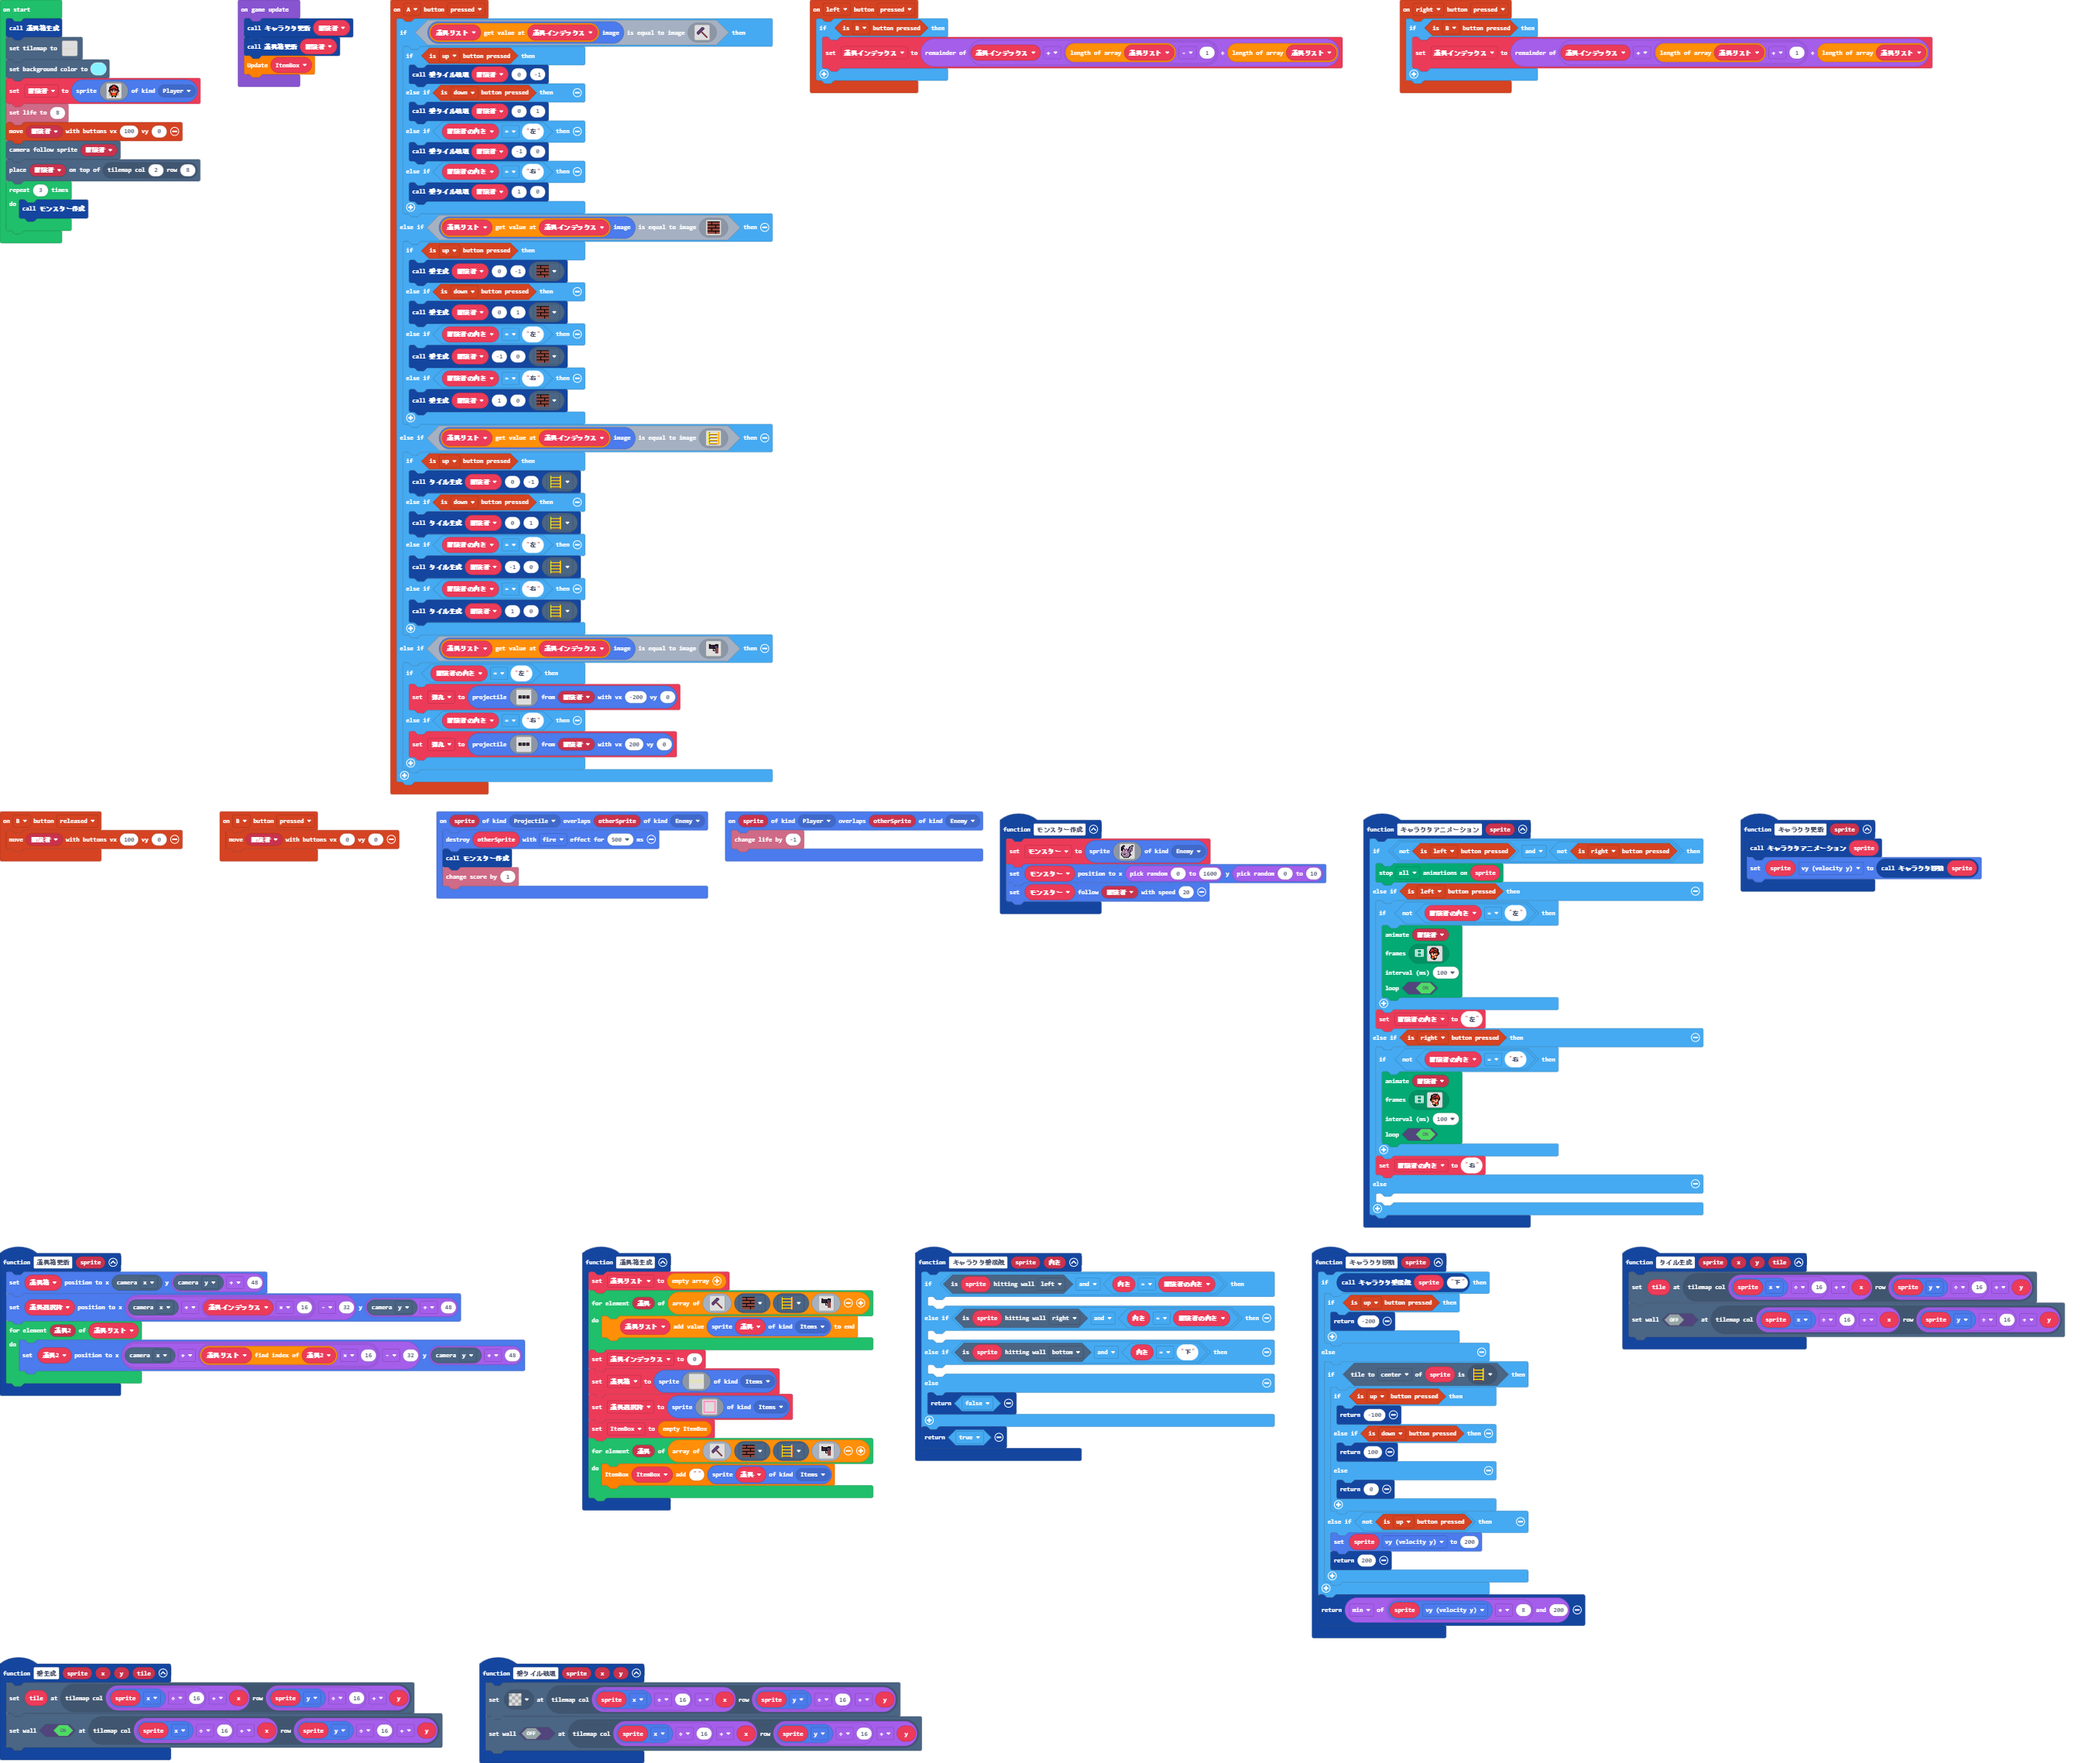
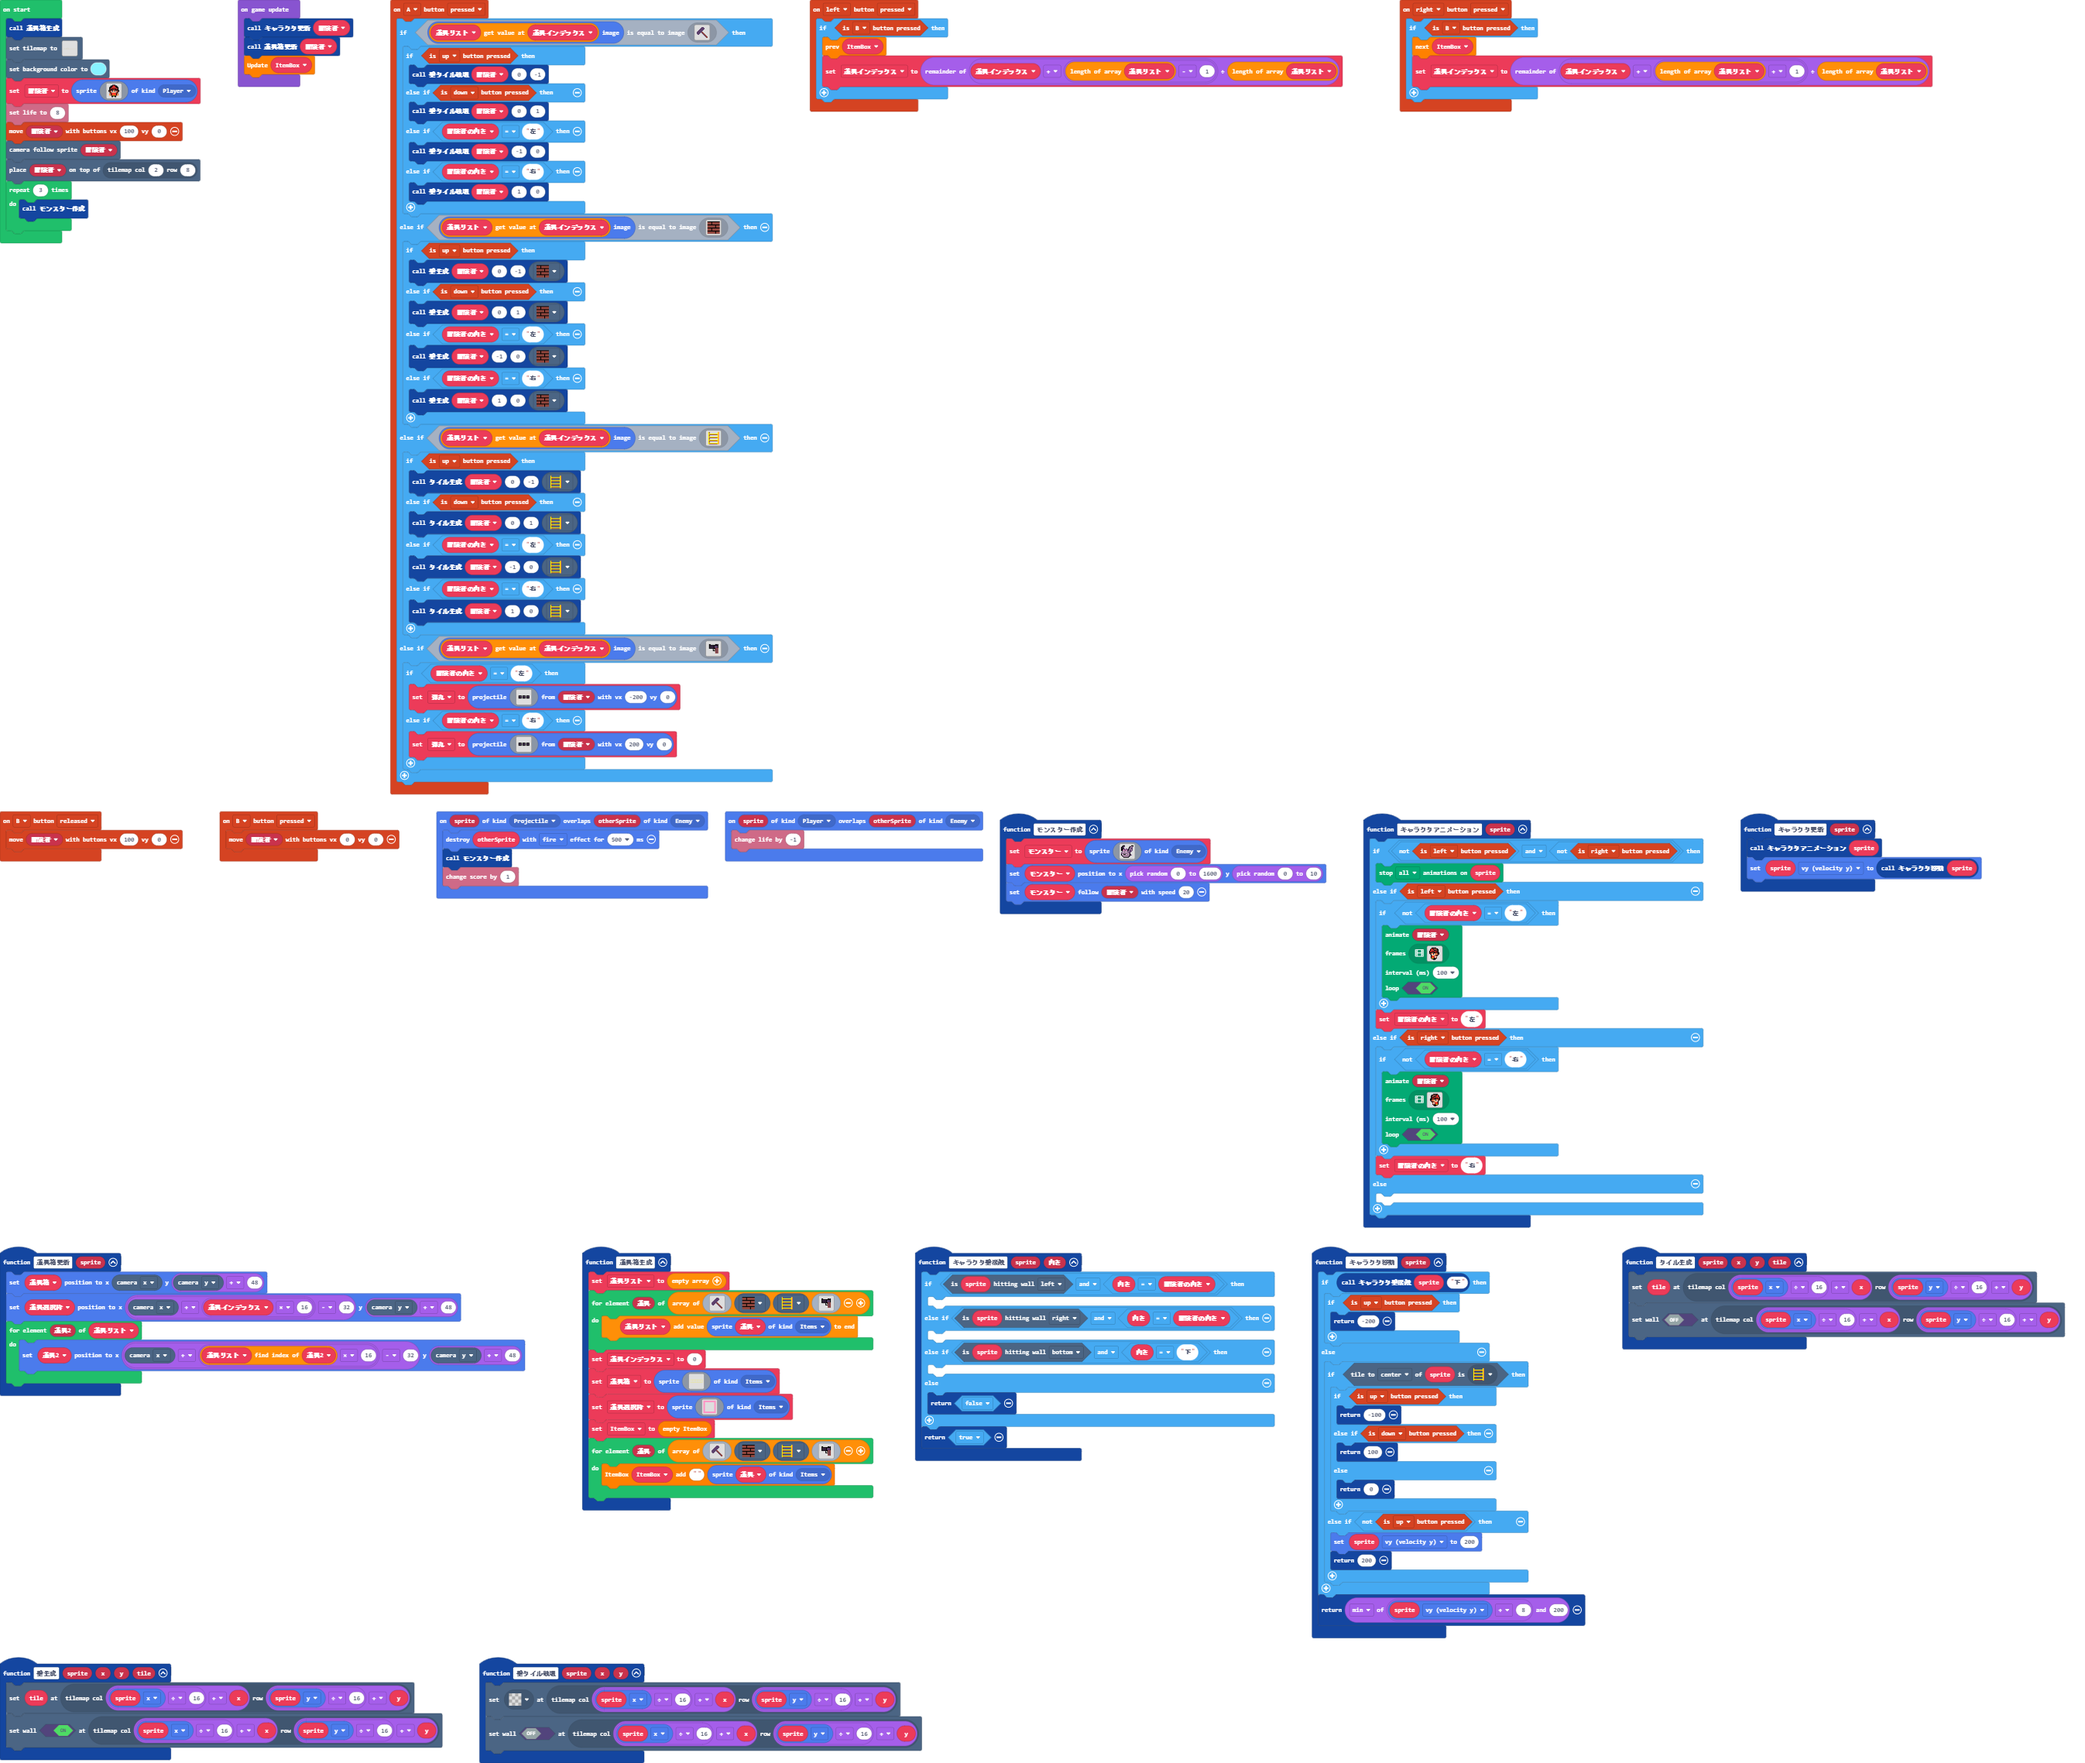
Update main.blocks, main.ts, itembox.ts

Changed region(s): [[0.3743, 0.0, 0.9358, 0.0624]]

diff --git a/itembox.ts b/itembox.ts
@@ -1,20 +1,4 @@
-// /**
-//  * Functions that create objects should store them in variables.
-//  */
-// //% color="#AA278D"
-// namespace language {
-//     //%
-//     export class Robot { }
 
-//     /**
-//      * Creates a robot and automtically set it to a variable
-//      */
-//     //% block="create robot"
-//     //% blockSetVariable=robot
-//     export function createRobot(): Robot {
-//         return undefined;
-//     }
-// }
 
 
 // namespace SpriteKind {
@@ -34,62 +18,7 @@ class Item {
         this._name = name;
         this._sprite = sprite;
     }
-
-    /**
-     * Set a name to the Item
-     * @param name
-     */
-    //% block="turn %Items(ItemBox) %active"
-    setName(name: string) {
-        this._name = name;
-    }
-    
 }
-
-
-// function 道具箱生成 () {
-//     道具リスト = []
-//     for (let 道具 of [assets.image`ハンマー`, assets.tile`壁タイル`, assets.tile`ハシゴタイル`, assets.image`ハンドガン`]) {
-//         道具リスト.push(sprites.create(道具, SpriteKind.Items))
-//     }
-//     道具インデックス = 0
-//     道具箱 = sprites.create(img`
-//         55555555555555555555555555555555555555555555555555555555555555555555555555555555
-//         5...............5...............5...............5...............5..............5
-//         5...............5...............5...............5...............5..............5
-//         5...............5...............5...............5...............5..............5
-//         5...............5...............5...............5...............5..............5
-//         5...............5...............5...............5...............5..............5
-//         5...............5...............5...............5...............5..............5
-//         5...............5...............5...............5...............5..............5
-//         5...............5...............5...............5...............5..............5
-//         5...............5...............5...............5...............5..............5
-//         5...............5...............5...............5...............5..............5
-//         5...............5...............5...............5...............5..............5
-//         5...............5...............5...............5...............5..............5
-//         5...............5...............5...............5...............5..............5
-//         5...............5...............5...............5...............5..............5
-//         55555555555555555555555555555555555555555555555555555555555555555555555555555555
-//         `, SpriteKind.Items)
-//     道具選択枠 = sprites.create(img`
-//         3 3 3 3 3 3 3 3 3 3 3 3 3 3 3 3 
-//         3 3 3 3 3 3 3 3 3 3 3 3 3 3 3 3 
-//         3 3 . . . . . . . . . . . . 3 3 
-//         3 3 . . . . . . . . . . . . 3 3 
-//         3 3 . . . . . . . . . . . . 3 3 
-//         3 3 . . . . . . . . . . . . 3 3 
-//         3 3 . . . . . . . . . . . . 3 3 
-//         3 3 . . . . . . . . . . . . 3 3 
-//         3 3 . . . . . . . . . . . . 3 3 
-//         3 3 . . . . . . . . . . . . 3 3 
-//         3 3 . . . . . . . . . . . . 3 3 
-//         3 3 . . . . . . . . . . . . 3 3 
-//         3 3 . . . . . . . . . . . . 3 3 
-//         3 3 . . . . . . . . . . . . 3 3 
-//         3 3 3 3 3 3 3 3 3 3 3 3 3 3 3 3 
-//         3 3 3 3 3 3 3 3 3 3 3 3 3 3 3 3 
-//         `, SpriteKind.Items)
-// }
 
 function createItemFrame(): Sprite {
     return sprites.create(img`
@@ -147,25 +76,14 @@ class ItemBox {
     constructor() {
         this._selected = 0;
         this._frame = createItemFrame();
+        this._frame.z = 0;
         this._focus = createItemFocus();
+        this._focus.z = 1;
 
         this._items = [];
-        // this._items.push(new Item("ハンマー", sprites.create(assets.image`ハンマー`, SpriteKind.Items)));
-        // this._items.push(new Item("壁タイル", sprites.create(assets.image`壁タイル`, SpriteKind.Items)));
-        // this._items.push(new Item("ハシゴタイル", sprites.create(assets.image`ハシゴタイル`, SpriteKind.Items)));
-        // this._items.push(new Item("ハンドガン", sprites.create(assets.image`ハンドガン`, SpriteKind.Items)));
-
     }
 
-    // /**
-    //  * Use "$this" to define a variable block that
-    //  * references the "this" pointer.
-    //  */
-    // //% block="ItemBox $this(ItemBox) add $item"    
-    // addItem(item: Item) {
-    //     this._items.push(item);
-    // }
-
+    
     /**
      * Use "$this" to define a variable block that
      * references the "this" pointer.
@@ -178,6 +96,26 @@ class ItemBox {
         this._items.push(item);
     }
 
+    //% block="ItemBox $this(ItemBox) selected $name "    
+    isSelected(name:string) : boolean {
+        let item = this._items[this._selected];
+        return item._name.compare(name) == 0;
+    }
+    
+    //% block="next $this(ItemBox)"    
+    next() {
+        this._selected += 1;
+        if( this._selected >= this._items.length )
+            this._selected = 0;
+    }
+
+    //% block="prev $this(ItemBox)"    
+    prev() {
+        this._selected -= 1;
+        if( this._selected < 0)
+            this._selected = this._items.length - 1;
+    }
+    
     /**
      * Use "$this" to define a variable block that
      * references the "this" pointer.

diff --git a/main.ts b/main.ts
@@ -71,6 +71,7 @@ controller.A.onEvent(ControllerButtonEvent.Pressed, function () {
 })
 controller.left.onEvent(ControllerButtonEvent.Pressed, function () {
     if (controller.B.isPressed()) {
+        ItemBox2.prev()
         道具インデックス = (道具インデックス + (道具リスト.length - 1)) % 道具リスト.length
     }
 })
@@ -127,6 +128,7 @@ function キャラクタ更新 (sprite: Sprite) {
 }
 controller.right.onEvent(ControllerButtonEvent.Pressed, function () {
     if (controller.B.isPressed()) {
+        ItemBox2.next()
         道具インデックス = (道具インデックス + (道具リスト.length + 1)) % 道具リスト.length
     }
 })
@@ -352,9 +354,9 @@ sprites.onOverlap(SpriteKind.Projectile, SpriteKind.Enemy, function (sprite, oth
 sprites.onOverlap(SpriteKind.Player, SpriteKind.Enemy, function (sprite, otherSprite) {
     info.changeLifeBy(-1)
 })
-let ItemBox2: ItemBox = null
 let 道具選択枠: Sprite = null
 let 道具箱: Sprite = null
+let ItemBox2: ItemBox = null
 let 弾丸: Sprite = null
 let 冒険者の向き = ""
 let 道具インデックス = 0
